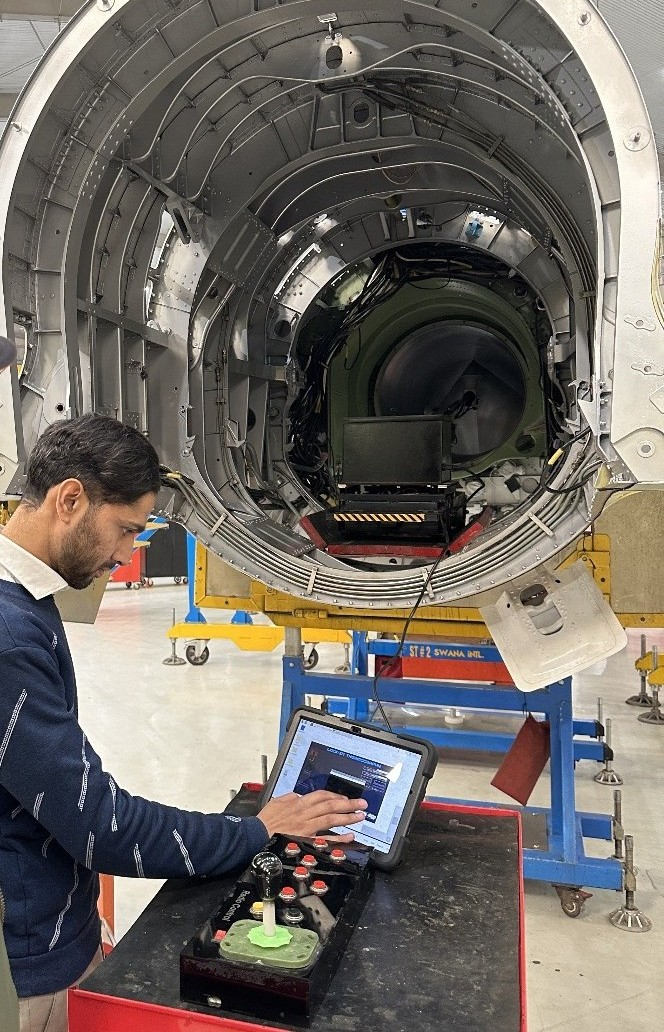
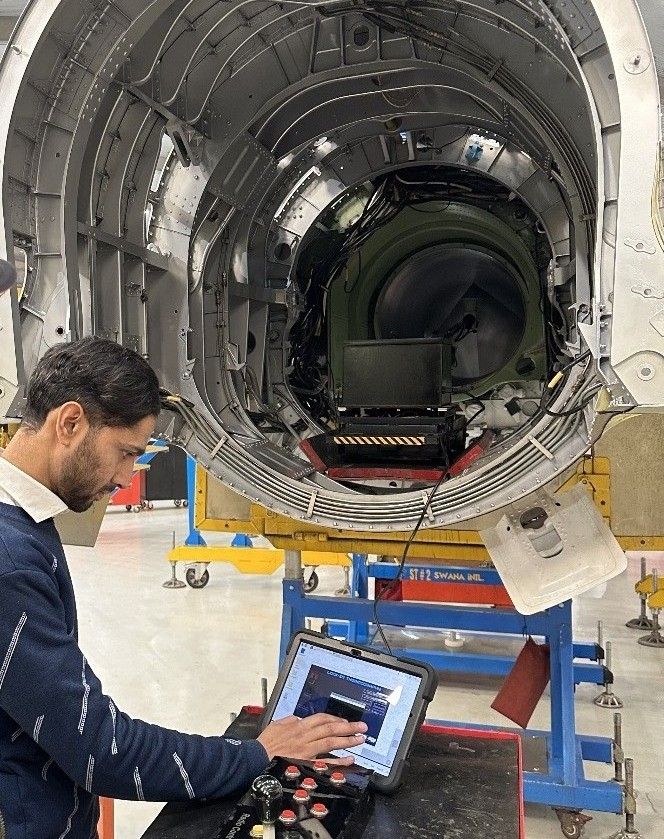
videos edited

diff --git a/projects.html b/projects.html
@@ -39,12 +39,22 @@
                         which is wirelessly controlled using a custom-made GUI from a tablet. This robotic arm can scan the inside of
                         engine intake as well as other areas of aircraft for defective rivet detection.</p>
                     <div>
-                        <img src="media/bot4.jpg" alt="ncra" style="display: inline-block; margin-left: 0; width: 45%;">
+                        <img src="media/bot3.jpg" alt="ncra" style="display: inline-block; margin-left: 0; width: 45%;">
                         <div style="width: 54%; margin-right: 0; display: inline-block;">
                             <img src="media/bot.png" alt="ncra" style="display: block; margin-left: 0; width: 100%;">
-                            <video style="width: 100%;" autoplay muted playsinline loop controls>
+                            <!-- <video style="width: 100%;" autoplay muted playsinline loop controls>
                                 <source src="media/bot1.mp4" type="video/mp4">
-                                Your browser does not support the video tag.</video>
+                                Your browser does not support the video tag.</video> -->
+                            <div class="video-container">
+                                <iframe 
+                                src="https://www.youtube.com/embed/wk0rQqKjLJQ?autoplay=1&mute=1&loop=1&playlist=wk0rQqKjLJQ&controls=1" 
+                                title="YouTube video player" 
+                                frameborder="0" 
+                                allow="accelerometer; autoplay; clipboard-write; encrypted-media; gyroscope; picture-in-picture" 
+                                referrerpolicy="strict-origin-when-cross-origin" 
+                                allowfullscreen>
+                                </iframe>
+                            </div>
                         </div>
                     </div>
                 </article>
@@ -54,10 +64,20 @@
                     <p>The contractors' information regarding their contracts with the College of Aeronautical Engineering (CAE), including
                         the contract value, line item details, expected date of delivery etc. are all managed through a customised 
                         GUI. New contract information can be added and existing updated based on the contract timeline.</p>
-                        <div style="text-align: center;">
-                        <video style="width: 70%;" autoplay muted playsinline loop controls>
+                        <!-- <div style="text-align: center;"> -->
+                        <!-- <video style="width: 70%;" autoplay muted playsinline loop controls>
                             <source src="media/gui.mp4" type="video/mp4">
-                            Your browser does not support the video tag.</video></div>
+                            Your browser does not support the video tag.</video></div> -->
+                        <div class="video-container">
+                            <iframe 
+                            src="https://www.youtube.com/embed/pcSLsvCl5Mk?autoplay=1&mute=1&loop=1&playlist=pcSLsvCl5Mk&controls=1" 
+                            title="YouTube video player" 
+                            frameborder="0" 
+                            allow="accelerometer; autoplay; clipboard-write; encrypted-media; gyroscope; picture-in-picture" 
+                            referrerpolicy="strict-origin-when-cross-origin" 
+                            allowfullscreen>
+                            </iframe>
+                        </div>
                 </article>
                 <article class="news-updates">
                     <h3>Human activity recognition in aerial videos</h3>
@@ -81,10 +101,20 @@
                         to transmit images to a larger screen for magnification. This Otoscope is designed by using an endoscope camera connected to a Raspberry
                         Pi 4B board, and a customised GUI to control its functionality. It is powered by a rechargable battery, which lasts for about 2 hours 
                         once fully charged.</p>
-                        <div style="text-align: center;">
+                        <!-- <div style="text-align: center;">
                             <video style="width: 70%;" autoplay muted playsinline loop controls>
                                 <source src="media/otoscope.mp4" type="video/mp4">
-                                Your browser does not support the video tag.</video></div>
+                                Your browser does not support the video tag.</video></div> -->
+                        <div class="video-container">
+                            <iframe 
+                            src="https://www.youtube.com/embed/cB036tztnIo?autoplay=1&mute=1&loop=1&playlist=cB036tztnIo&controls=1" 
+                            title="YouTube video player" 
+                            frameborder="0" 
+                            allow="accelerometer; autoplay; clipboard-write; encrypted-media; gyroscope; picture-in-picture" 
+                            referrerpolicy="strict-origin-when-cross-origin" 
+                            allowfullscreen>
+                            </iframe>
+                        </div>
                 </article><br>
             </div>
         </section>

diff --git a/index.html b/index.html
@@ -76,12 +76,22 @@
                         defective rivets by using the integrated post-processing algorithm. The robot has been tested on lab 
                         samples as well as on actual aircraft.</p>
                     <div>
-                        <img src="media/bot4.jpg" alt="ncra" style="display: inline-block; margin-left: 0; width: 45%;">
+                        <img src="media/bot3.jpg" alt="ncra" style="display: inline-block; margin-left: 0; width: 45%;">
                         <div style="width: 54%; margin-right: 0; display: inline-block;">
                             <img src="media/bot.png" alt="ncra" style="display: block; margin-left: 0; width: 100%;">
-                            <video style="width: 100%;" autoplay muted playsinline loop controls>
+                            <!-- <video style="width: 100%;" autoplay muted playsinline loop controls>
                                 <source src="media/bot1.mp4" type="video/mp4">
-                                Your browser does not support the video tag.</video>
+                                Your browser does not support the video tag.</video> -->
+                            <div class="video-container">
+                                <iframe 
+                                src="https://www.youtube.com/embed/wk0rQqKjLJQ?autoplay=1&mute=1&loop=1&playlist=wk0rQqKjLJQ&controls=1" 
+                                title="YouTube video player" 
+                                frameborder="0" 
+                                allow="accelerometer; autoplay; clipboard-write; encrypted-media; gyroscope; picture-in-picture" 
+                                referrerpolicy="strict-origin-when-cross-origin" 
+                                allowfullscreen>
+                                </iframe>
+                            </div>
                         </div>
                     </div>
                 </article>
@@ -104,12 +114,12 @@
                     <img src="media/GA.png" alt="ncra" style="display: block; margin-left: auto; margin-right: auto; width: 100%;">
                 </article>
                 <article class="news-updates">
-                    <h3>Joined College of Aeronautical Engineering (CAE), National University of Sciences & Technology (NUST), Islamabad</h3>
+                    <h3>Joined College of Aeronautical Engineering (CAE), National University of Sciences & Technology (NUST), Islamabad, Pakistan</h3>
                     <p><em>Date: 1st June 2023</em></p>
                     <p>Designation: Research Assistant</p>
                 </article>
                 <article class="news-updates">
-                    <h3>Organized and managed two days hands-on workshop on Aerial Spraying Drones, held at NCRA, NUST, Islamabad</h3>
+                    <h3>Organized and managed two days hands-on workshop on Aerial Spraying Drones, held at NCRA, NUST, Islamabad, Pakistan</h3>
                     <p><em>Date:  19th October 2022</em></p>
                     <div class="image-container">
                         <img src="media/ncra.jpeg" alt="ncra">
@@ -117,7 +127,7 @@
                     </div>
                 </article>
                 <article class="news-updates">
-                    <h3>Joined National Center of Robotics & Automation (NCRA), National University of Sciences & Technology (NUST), Islamabad</h3>
+                    <h3>Joined National Center of Robotics & Automation (NCRA), National University of Sciences & Technology (NUST), Islamabad, Pakistan</h3>
                     <p><em>Date: 25th August 2022</em></p>
                     <p>Designation: Research Assistant</p>
                 </article>

diff --git a/styles.css b/styles.css
@@ -115,3 +115,19 @@ a:link, a:visited {
     color: #0000EE; /* Use your desired color */
     text-decoration: none; /* or any style you prefer */
   }
+
+  .video-container {
+    position: relative;
+    width: 100%;
+    /* 16:9 aspect ratio => 9 / 16 * 100 = 56.25% */
+    padding-top: 56.25%;
+    overflow: hidden;
+  }
+  
+  .video-container iframe {
+    position: absolute;
+    top: 0;
+    left: 0;
+    width: 100%;
+    height: 100%;
+  }
